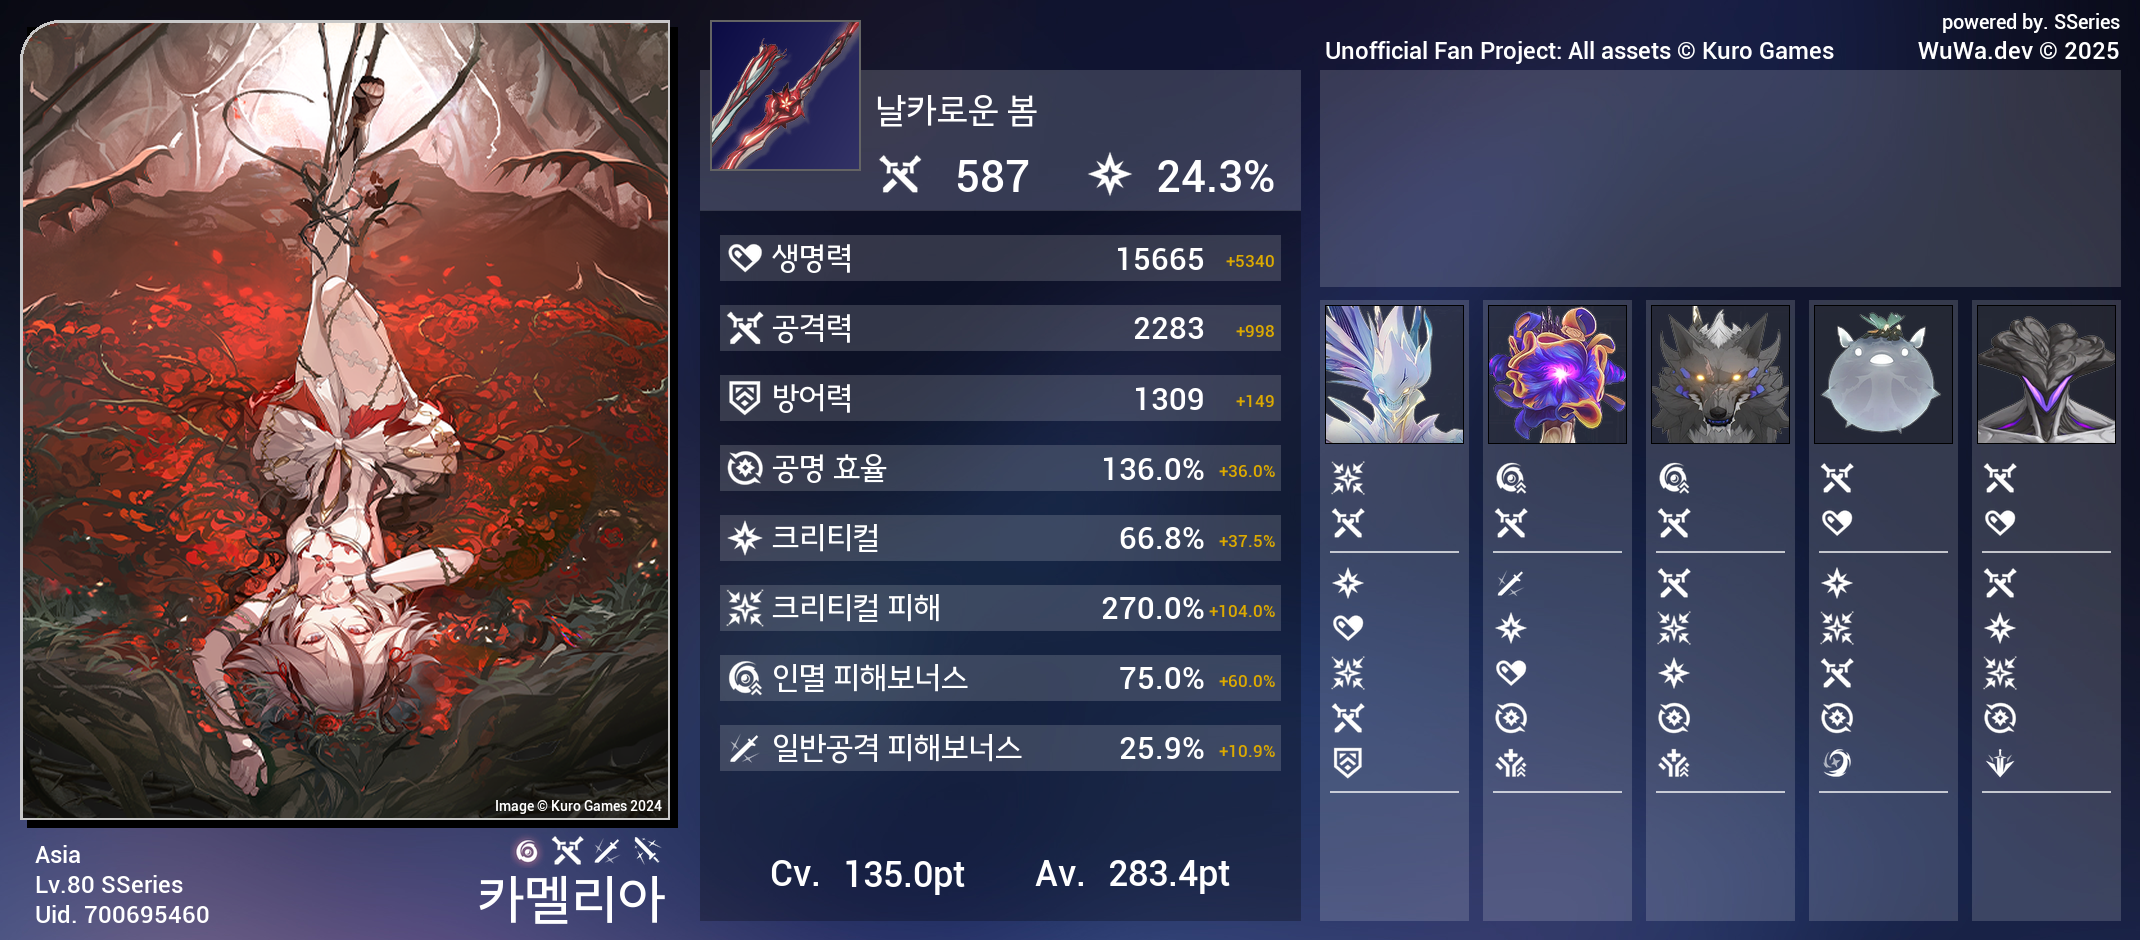
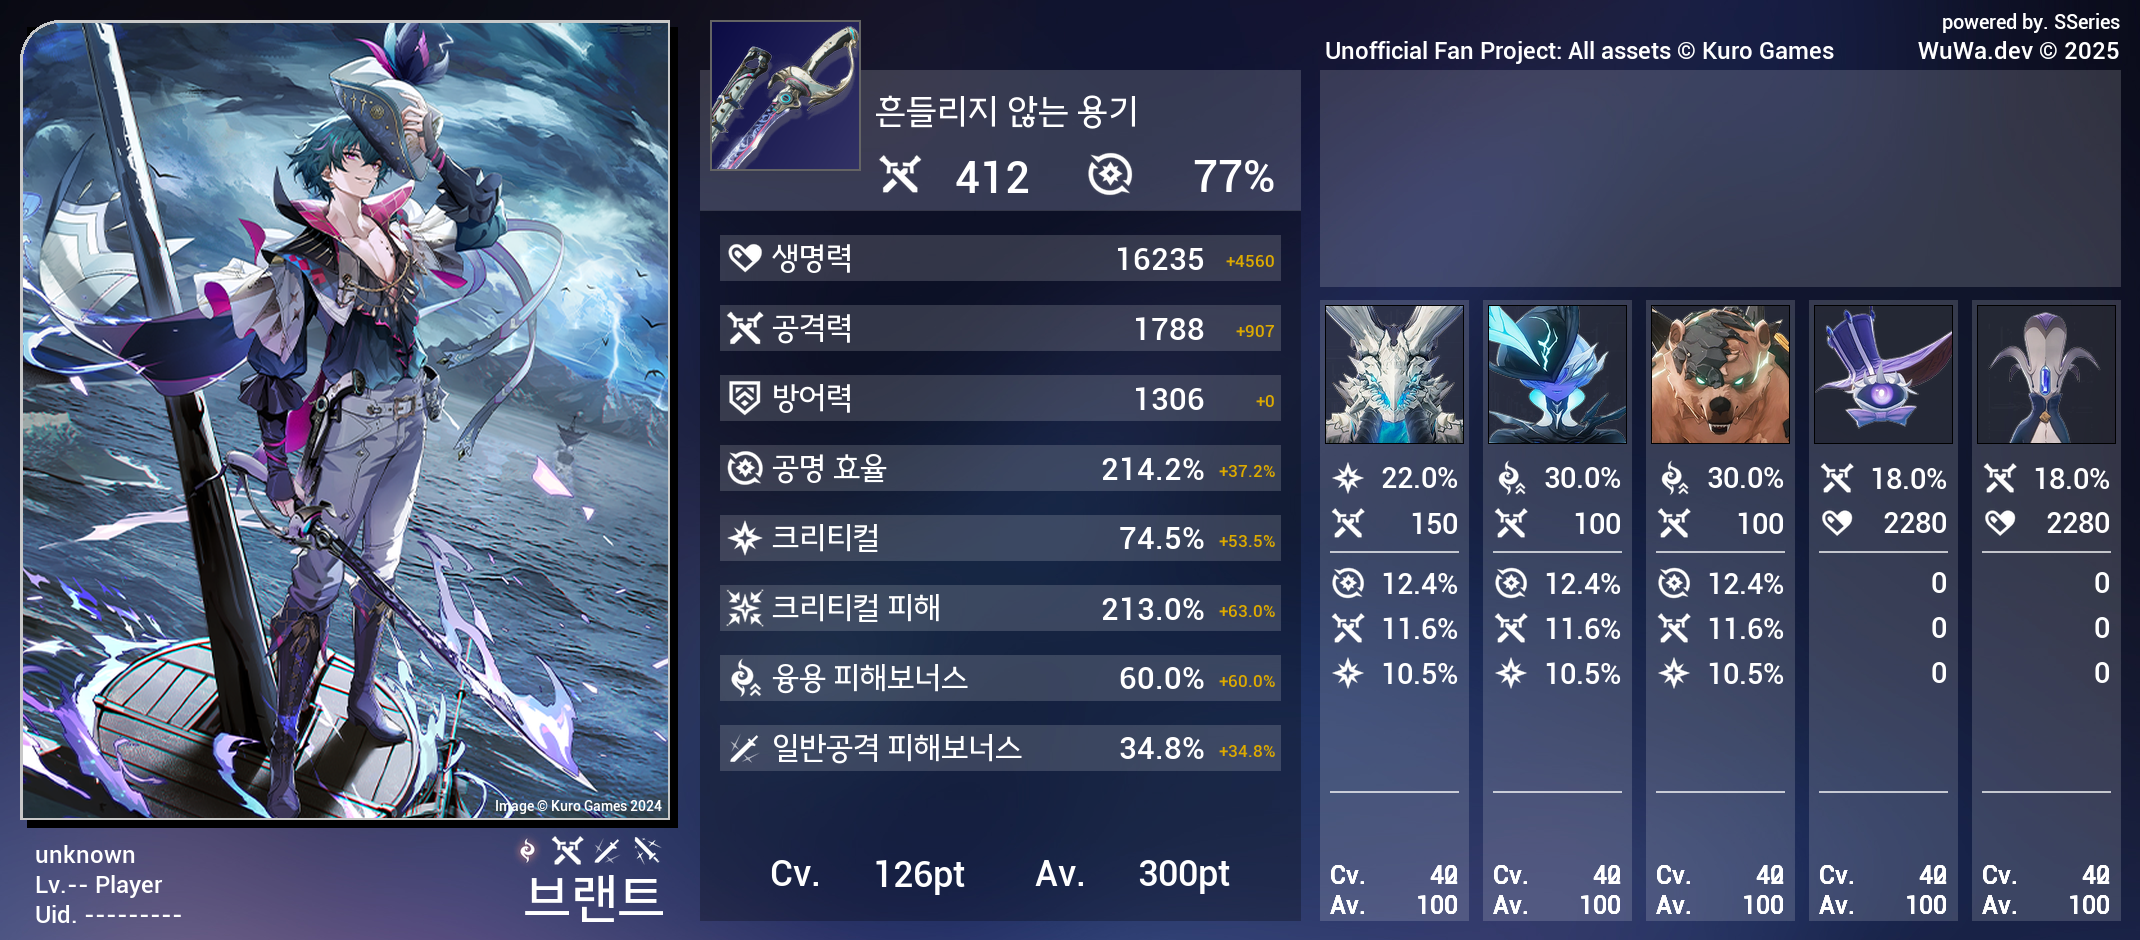
Enhance profile card image generation and update dependencies
Improved the backend image generation by adding value and label rendering for profile card stats. Updated Firebase and related dependencies in the frontend to the latest versions. Also enabled the test button and image display in the ProfileCard component.

diff --git a/frontend/src/components/ProfileCard.js b/frontend/src/components/ProfileCard.js
@@ -284,7 +284,7 @@ function ProfileCard() {
 
   return (
     <div key={lang} className="profile-portrait">
-      {/*<button
+      <button
         onClick={async () => {
           try {
             const imageFile = await fetch("/default.webp")
@@ -343,7 +343,7 @@ function ProfileCard() {
         }}>
         test
       </button>
-      <img src={generatedImage}/>*/}
+      <img src={generatedImage}/>
       <div className="profile-filter-slot">
         {Object.values(WEAPON_TYPES).map((item, idx) => (
           <button

diff --git a/backend/Image maker/main.py b/backend/Image maker/main.py
@@ -370,8 +370,24 @@ async def create_profile_card(
             echo_data[5][1],
             echo_data[6][1],
         ]
-        for j, path in enumerate(icon_paths):
+        #// echo_score = {
+        #//     "total": [0, 0],
+        #//     "echo_datas": stat_data.get("echo_score")
+        #// }
+        for j, (path, value, score) in enumerate(zip(icon_paths, stat_value, echo_score)):
             draw_image(base, icon_paths[j], (1330 + 163 * i, 460 + j * 45 + (15 if j > 1 else 0), 36, 36))
+            draw_text(
+                base,
+                f"{value}{'%' if any(x in path for x in ['Bns', 'Crit', 'Pct']) else ''}",
+                (1330 + 128 + 163 * i, 467 + j * 45 + (15 if j > 1 else 0)),
+                NUM_FONT_PATH,
+                29,
+                anchor="rt"
+            )
+            draw_text(base, "Cv.", (1330 + 163 * i, 865), EN_FONT_PATH, 25)
+            draw_text(base, "Cv.", (1330 + 128 + 163 * i, 865), EN_FONT_PATH, 25, anchor="rt")
+            draw_text(base, "Av.", (1330 + 163 * i, 895), EN_FONT_PATH, 25)
+            draw_text(base, "Av.", (1330 + 128 + 163 * i, 895), EN_FONT_PATH, 25, anchor="rt")
 
     #@ Return Image Generate
     base.save("result.png", "PNG")
